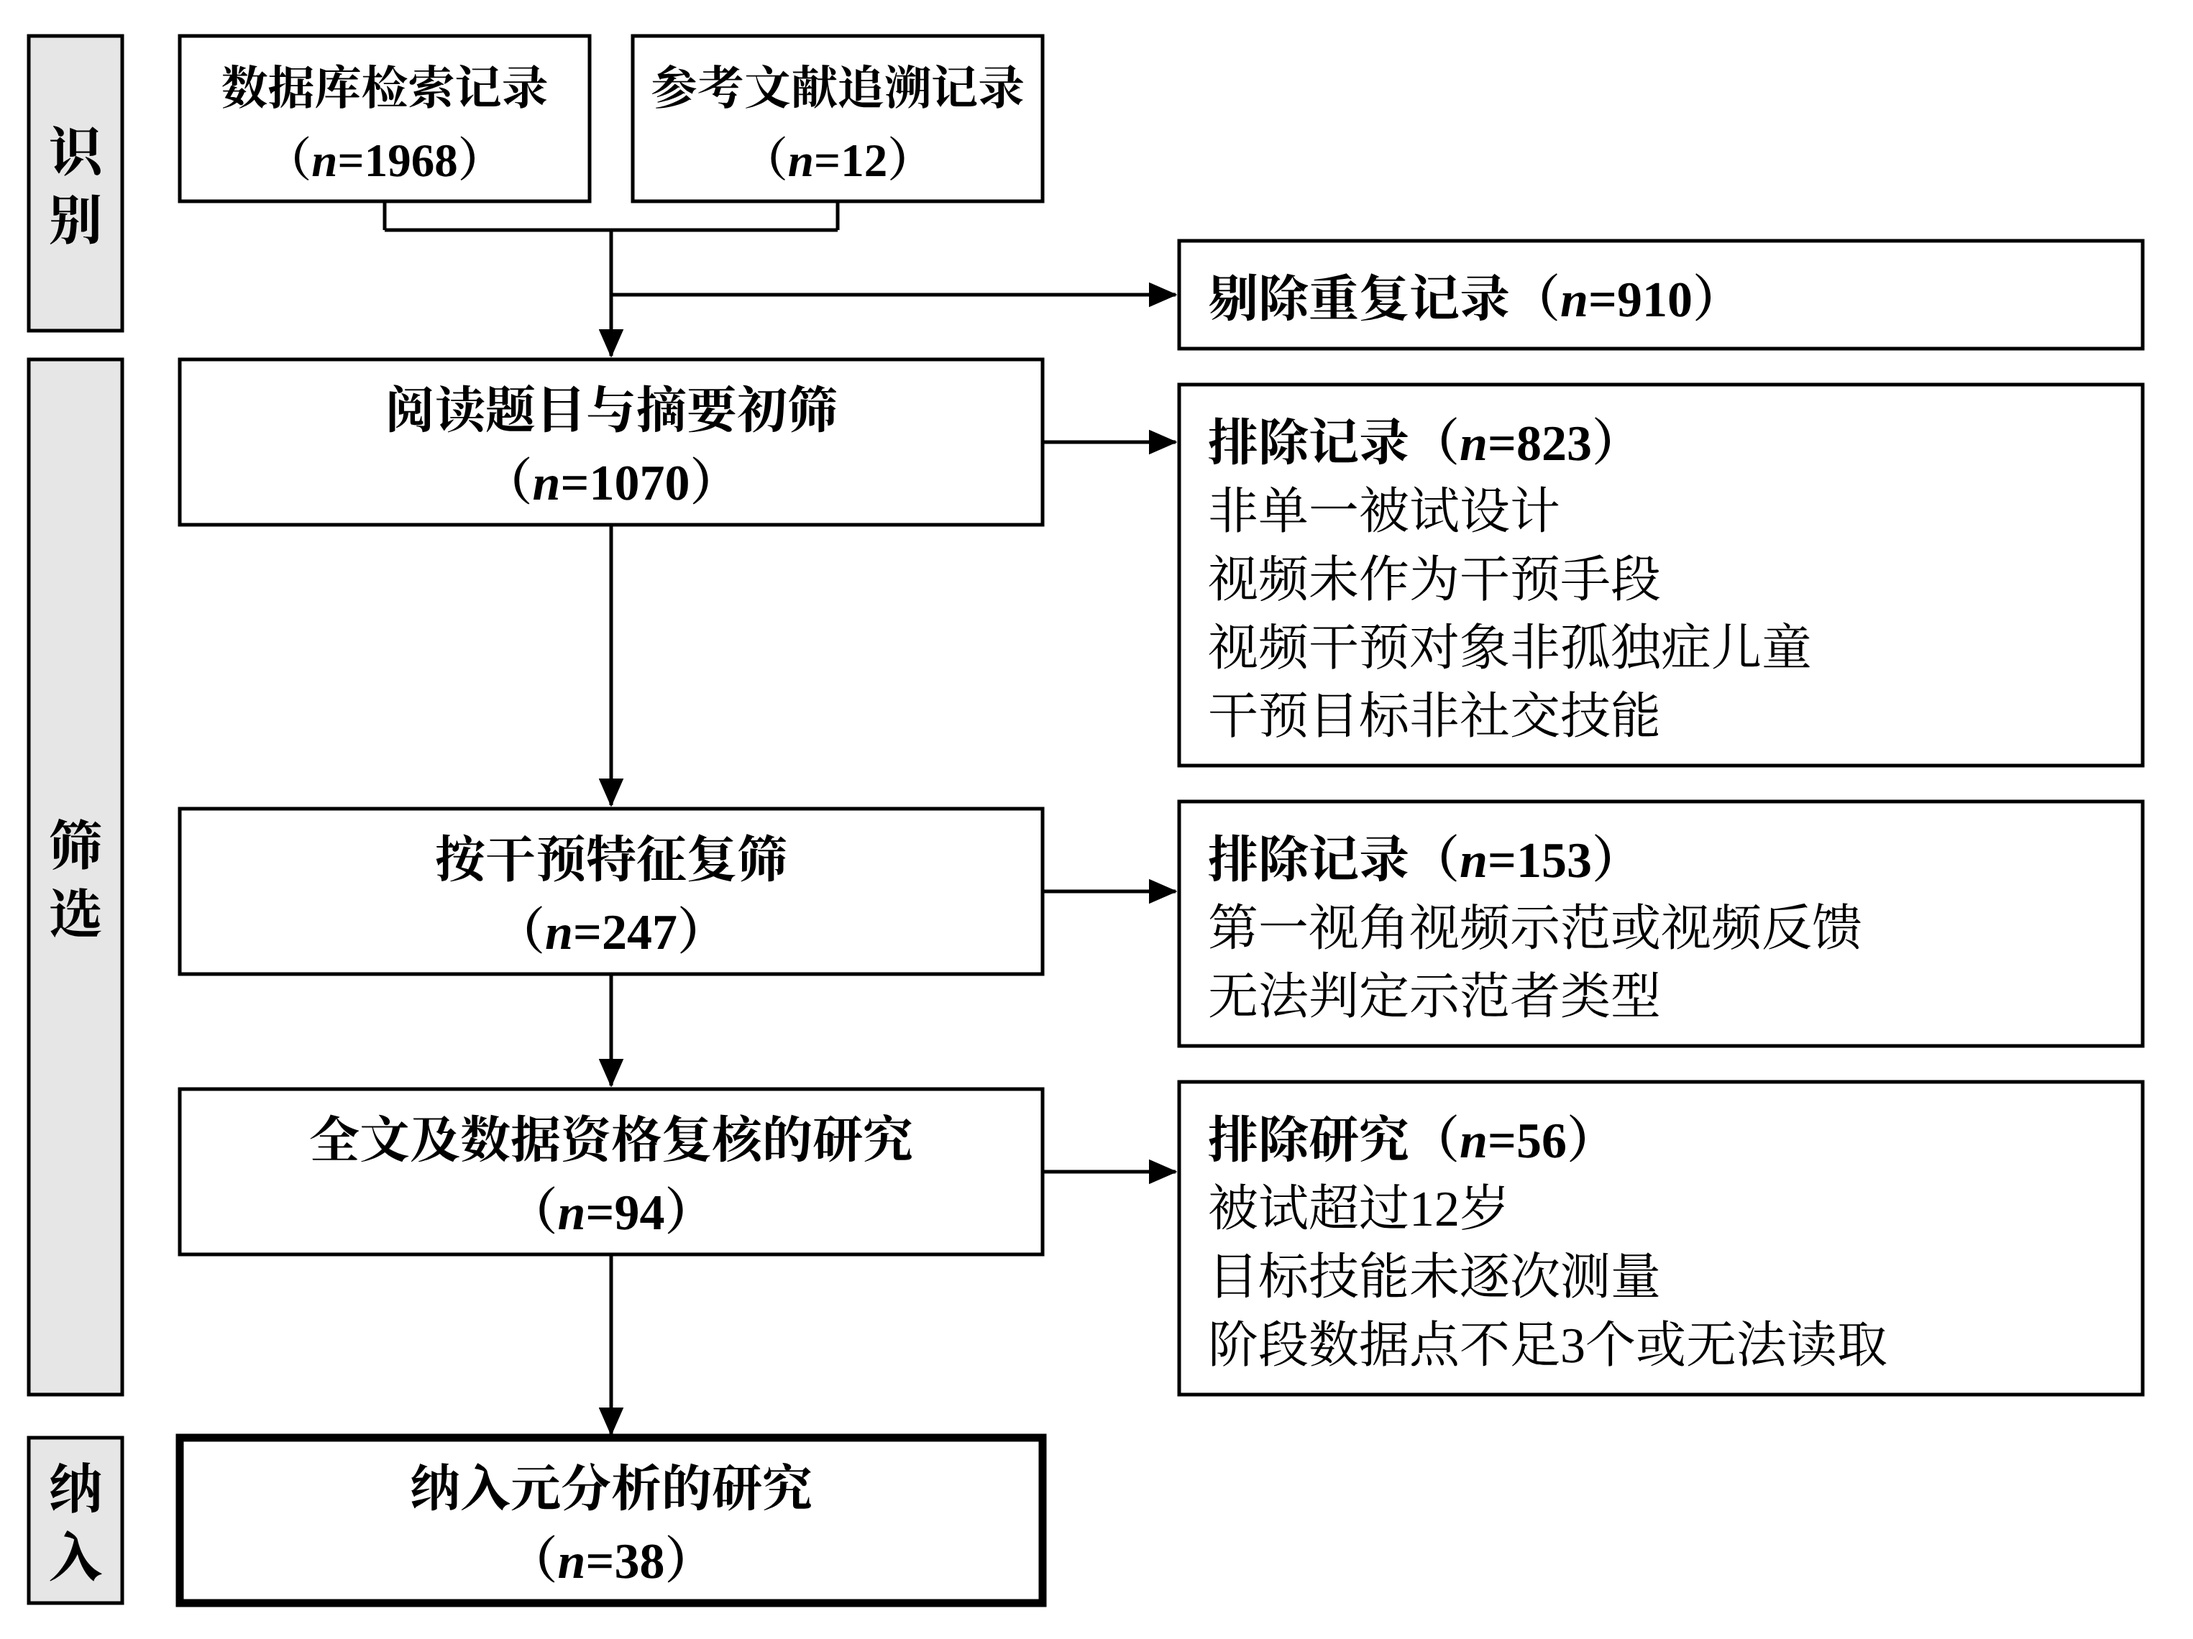
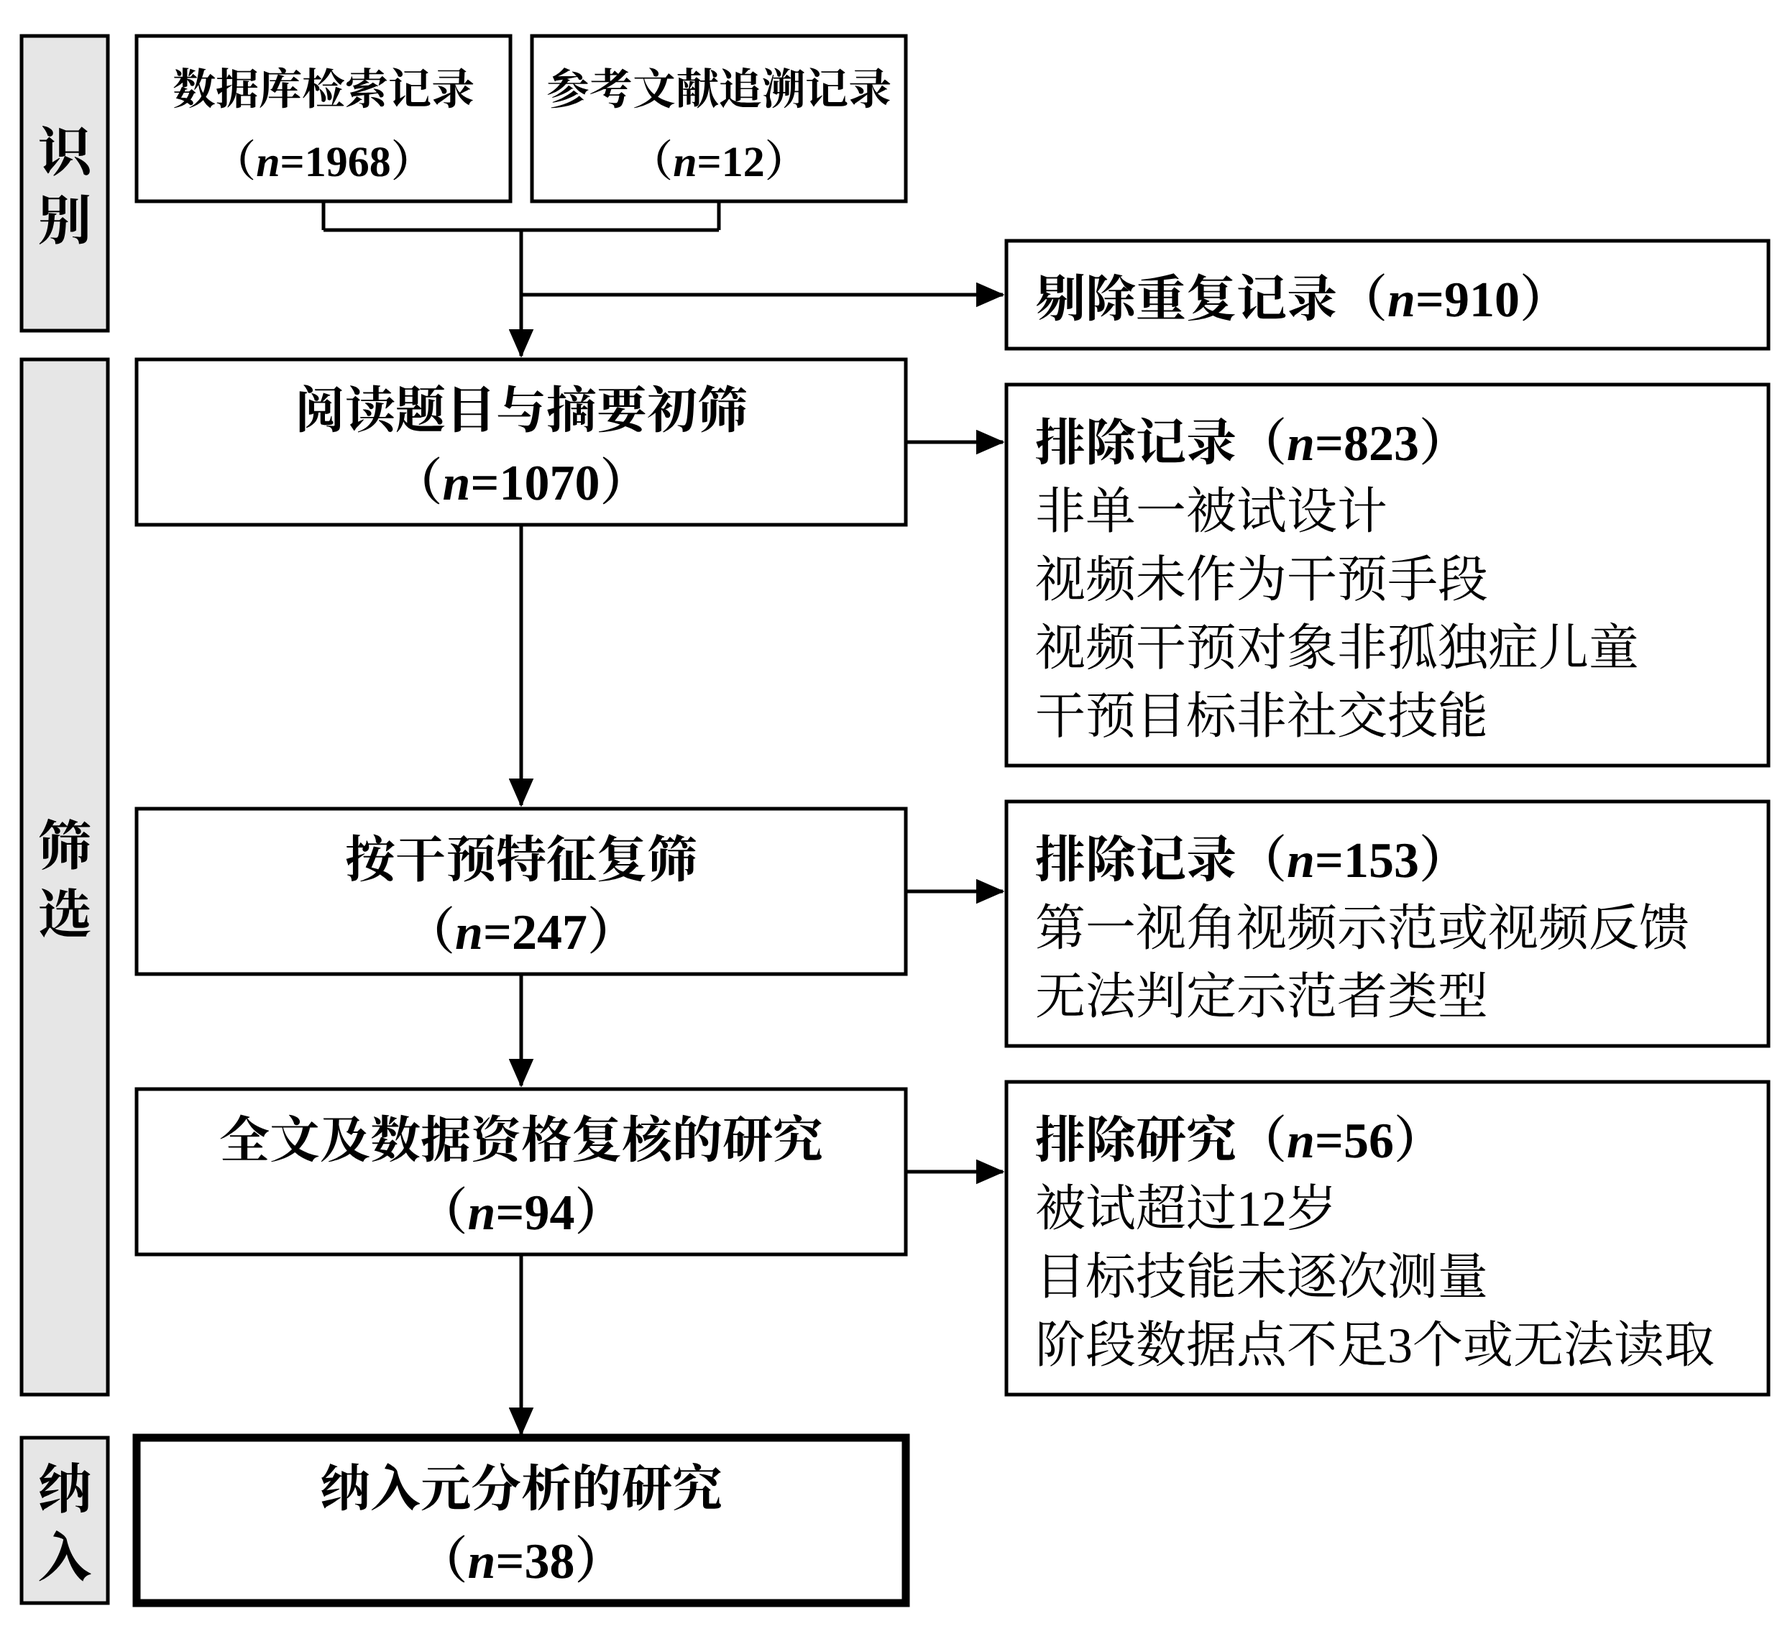
Narrow flowchart columns
Claude-Session: https://claude.ai/code/session_01EqCS8pdH5dXcLV7bqheSma

diff --git a/文献筛选流程图/流程图.html b/文献筛选流程图/流程图.html
@@ -1,10 +1,10 @@
 <!doctype html>
 <html><head><meta charset="utf-8"><title>文献筛选流程图</title><style>body{margin:0;background:#fff}</style></head><body>
-<svg id="fig" width="610" height="456.0" viewBox="0 0 610 456.0" xmlns="http://www.w3.org/2000/svg">
+<svg id="fig" width="498" height="456.0" viewBox="0 0 498 456.0" xmlns="http://www.w3.org/2000/svg">
 <style>
   text{font-family:"Times New Roman","Liberation Serif","SimSun","宋体","Noto Serif CJK SC",serif;font-size:14px;fill:#000}
   text.b{font-weight:bold}
-  text.sm{font-size:13px}
+  text.sm{font-size:12px}
   text.st{font-weight:bold;font-size:15px}
   .box{fill:#fff;stroke:#000;stroke-width:1}
   .thick{stroke-width:2.2}
@@ -13,61 +13,61 @@
   .ln{marker-end:url(#ar)}
 </style>
 <defs><marker id="ar" markerUnits="userSpaceOnUse" markerWidth="8" markerHeight="7" refX="7.5" refY="3.5" orient="auto"><path d="M0,0 L8,3.5 L0,7 z" fill="#000"/></marker></defs>
-<rect width="610" height="456.0" fill="#fff"/>
-<rect class="box" x="50" y="10" width="114.0" height="46"/>
-<text class="b sm" x="107.0" y="29" text-anchor="middle">数据库检索记录</text>
-<text class="b sm" x="107.0" y="49" text-anchor="middle">（<tspan font-style="italic">n</tspan>=<tspan>1968</tspan>）</text>
-<rect class="box" x="176.0" y="10" width="114.0" height="46"/>
-<text class="b sm" x="233.0" y="29" text-anchor="middle">参考文献追溯记录</text>
-<text class="b sm" x="233.0" y="49" text-anchor="middle">（<tspan font-style="italic">n</tspan>=<tspan>12</tspan>）</text>
-<line class="ln0" x1="107.0" y1="56" x2="107.0" y2="64"/>
-<line class="ln0" x1="233.0" y1="56" x2="233.0" y2="64"/>
-<line class="ln0" x1="107.0" y1="64" x2="233.0" y2="64"/>
-<rect class="box" x="328" y="67.0" width="268" height="30"/>
-<text class="b" x="336" y="88.0" text-anchor="start">剔除重复记录（<tspan font-style="italic">n</tspan>=<tspan>910</tspan>）</text>
-<line class="ln" x1="170.0" y1="82.0" x2="327" y2="82.0"/>
-<line class="ln" x1="170.0" y1="64" x2="170.0" y2="99"/>
-<rect class="box" x="50" y="100" width="240" height="46"/>
-<text class="b" x="170.0" y="119" text-anchor="middle">阅读题目与摘要初筛</text>
-<text class="b" x="170.0" y="139" text-anchor="middle">（<tspan font-style="italic">n</tspan>=<tspan>1070</tspan>）</text>
-<rect class="box" x="328" y="107.0" width="268" height="106"/>
-<text class="b" x="336" y="128.0" text-anchor="start">排除记录（<tspan font-style="italic">n</tspan>=<tspan>823</tspan>）</text>
-<text class="" x="336" y="147.0" text-anchor="start">非单一被试设计</text>
-<text class="" x="336" y="166.0" text-anchor="start">视频未作为干预手段</text>
-<text class="" x="336" y="185.0" text-anchor="start">视频干预对象非孤独症儿童</text>
-<text class="" x="336" y="204.0" text-anchor="start">干预目标非社交技能</text>
-<line class="ln" x1="290" y1="123.0" x2="327" y2="123.0"/>
-<line class="ln" x1="170.0" y1="146" x2="170.0" y2="224.0"/>
-<rect class="box" x="50" y="225.0" width="240" height="46"/>
-<text class="b" x="170.0" y="244.0" text-anchor="middle">按干预特征复筛</text>
-<text class="b" x="170.0" y="264.0" text-anchor="middle">（<tspan font-style="italic">n</tspan>=<tspan>247</tspan>）</text>
-<rect class="box" x="328" y="223.0" width="268" height="68"/>
-<text class="b" x="336" y="244.0" text-anchor="start">排除记录（<tspan font-style="italic">n</tspan>=<tspan>153</tspan>）</text>
-<text class="" x="336" y="263.0" text-anchor="start">第一视角视频示范或视频反馈</text>
-<text class="" x="336" y="282.0" text-anchor="start">无法判定示范者类型</text>
-<line class="ln" x1="290" y1="248.0" x2="327" y2="248.0"/>
-<line class="ln" x1="170.0" y1="271.0" x2="170.0" y2="302.0"/>
-<rect class="box" x="50" y="303.0" width="240" height="46"/>
-<text class="b" x="170.0" y="322.0" text-anchor="middle">全文及数据资格复核的研究</text>
-<text class="b" x="170.0" y="342.0" text-anchor="middle">（<tspan font-style="italic">n</tspan>=<tspan>94</tspan>）</text>
-<rect class="box" x="328" y="301.0" width="268" height="87"/>
-<text class="b" x="336" y="322.0" text-anchor="start">排除研究（<tspan font-style="italic">n</tspan>=<tspan>56</tspan>）</text>
-<text class="" x="336" y="341.0" text-anchor="start">被试超过12岁</text>
-<text class="" x="336" y="360.0" text-anchor="start">目标技能未逐次测量</text>
-<text class="" x="336" y="379.0" text-anchor="start">阶段数据点不足3个或无法读取</text>
-<line class="ln" x1="290" y1="326.0" x2="327" y2="326.0"/>
-<line class="ln" x1="170.0" y1="349.0" x2="170.0" y2="399.0"/>
-<rect class="box thick" x="50" y="400.0" width="240" height="46"/>
-<text class="b" x="170.0" y="419.0" text-anchor="middle">纳入元分析的研究</text>
-<text class="b" x="170.0" y="439.0" text-anchor="middle">（<tspan font-style="italic">n</tspan>=<tspan>38</tspan>）</text>
-<rect class="stage" x="8" y="10" width="26" height="82"/>
-<text class="st" x="21.0" y="47.5" text-anchor="middle">识</text>
-<text class="st" x="21.0" y="66.5" text-anchor="middle">别</text>
-<rect class="stage" x="8" y="100" width="26" height="288.0"/>
-<text class="st" x="21.0" y="240.5" text-anchor="middle">筛</text>
-<text class="st" x="21.0" y="259.5" text-anchor="middle">选</text>
-<rect class="stage" x="8" y="400.0" width="26" height="46.0"/>
-<text class="st" x="21.0" y="419.5" text-anchor="middle">纳</text>
-<text class="st" x="21.0" y="438.5" text-anchor="middle">入</text>
+<rect width="498" height="456.0" fill="#fff"/>
+<rect class="box" x="38" y="10" width="104.0" height="46"/>
+<text class="b sm" x="90.0" y="29" text-anchor="middle">数据库检索记录</text>
+<text class="b sm" x="90.0" y="49" text-anchor="middle">（<tspan font-style="italic">n</tspan>=<tspan>1968</tspan>）</text>
+<rect class="box" x="148.0" y="10" width="104.0" height="46"/>
+<text class="b sm" x="200.0" y="29" text-anchor="middle">参考文献追溯记录</text>
+<text class="b sm" x="200.0" y="49" text-anchor="middle">（<tspan font-style="italic">n</tspan>=<tspan>12</tspan>）</text>
+<line class="ln0" x1="90.0" y1="56" x2="90.0" y2="64"/>
+<line class="ln0" x1="200.0" y1="56" x2="200.0" y2="64"/>
+<line class="ln0" x1="90.0" y1="64" x2="200.0" y2="64"/>
+<rect class="box" x="280" y="67.0" width="212" height="30"/>
+<text class="b" x="288" y="88.0" text-anchor="start">剔除重复记录（<tspan font-style="italic">n</tspan>=<tspan>910</tspan>）</text>
+<line class="ln" x1="145.0" y1="82.0" x2="279" y2="82.0"/>
+<line class="ln" x1="145.0" y1="64" x2="145.0" y2="99"/>
+<rect class="box" x="38" y="100" width="214" height="46"/>
+<text class="b" x="145.0" y="119" text-anchor="middle">阅读题目与摘要初筛</text>
+<text class="b" x="145.0" y="139" text-anchor="middle">（<tspan font-style="italic">n</tspan>=<tspan>1070</tspan>）</text>
+<rect class="box" x="280" y="107.0" width="212" height="106"/>
+<text class="b" x="288" y="128.0" text-anchor="start">排除记录（<tspan font-style="italic">n</tspan>=<tspan>823</tspan>）</text>
+<text class="" x="288" y="147.0" text-anchor="start">非单一被试设计</text>
+<text class="" x="288" y="166.0" text-anchor="start">视频未作为干预手段</text>
+<text class="" x="288" y="185.0" text-anchor="start">视频干预对象非孤独症儿童</text>
+<text class="" x="288" y="204.0" text-anchor="start">干预目标非社交技能</text>
+<line class="ln" x1="252" y1="123.0" x2="279" y2="123.0"/>
+<line class="ln" x1="145.0" y1="146" x2="145.0" y2="224.0"/>
+<rect class="box" x="38" y="225.0" width="214" height="46"/>
+<text class="b" x="145.0" y="244.0" text-anchor="middle">按干预特征复筛</text>
+<text class="b" x="145.0" y="264.0" text-anchor="middle">（<tspan font-style="italic">n</tspan>=<tspan>247</tspan>）</text>
+<rect class="box" x="280" y="223.0" width="212" height="68"/>
+<text class="b" x="288" y="244.0" text-anchor="start">排除记录（<tspan font-style="italic">n</tspan>=<tspan>153</tspan>）</text>
+<text class="" x="288" y="263.0" text-anchor="start">第一视角视频示范或视频反馈</text>
+<text class="" x="288" y="282.0" text-anchor="start">无法判定示范者类型</text>
+<line class="ln" x1="252" y1="248.0" x2="279" y2="248.0"/>
+<line class="ln" x1="145.0" y1="271.0" x2="145.0" y2="302.0"/>
+<rect class="box" x="38" y="303.0" width="214" height="46"/>
+<text class="b" x="145.0" y="322.0" text-anchor="middle">全文及数据资格复核的研究</text>
+<text class="b" x="145.0" y="342.0" text-anchor="middle">（<tspan font-style="italic">n</tspan>=<tspan>94</tspan>）</text>
+<rect class="box" x="280" y="301.0" width="212" height="87"/>
+<text class="b" x="288" y="322.0" text-anchor="start">排除研究（<tspan font-style="italic">n</tspan>=<tspan>56</tspan>）</text>
+<text class="" x="288" y="341.0" text-anchor="start">被试超过12岁</text>
+<text class="" x="288" y="360.0" text-anchor="start">目标技能未逐次测量</text>
+<text class="" x="288" y="379.0" text-anchor="start">阶段数据点不足3个或无法读取</text>
+<line class="ln" x1="252" y1="326.0" x2="279" y2="326.0"/>
+<line class="ln" x1="145.0" y1="349.0" x2="145.0" y2="399.0"/>
+<rect class="box thick" x="38" y="400.0" width="214" height="46"/>
+<text class="b" x="145.0" y="419.0" text-anchor="middle">纳入元分析的研究</text>
+<text class="b" x="145.0" y="439.0" text-anchor="middle">（<tspan font-style="italic">n</tspan>=<tspan>38</tspan>）</text>
+<rect class="stage" x="6" y="10" width="24" height="82"/>
+<text class="st" x="18.0" y="47.5" text-anchor="middle">识</text>
+<text class="st" x="18.0" y="66.5" text-anchor="middle">别</text>
+<rect class="stage" x="6" y="100" width="24" height="288.0"/>
+<text class="st" x="18.0" y="240.5" text-anchor="middle">筛</text>
+<text class="st" x="18.0" y="259.5" text-anchor="middle">选</text>
+<rect class="stage" x="6" y="400.0" width="24" height="46.0"/>
+<text class="st" x="18.0" y="419.5" text-anchor="middle">纳</text>
+<text class="st" x="18.0" y="438.5" text-anchor="middle">入</text>
 </svg>
 </body></html>
